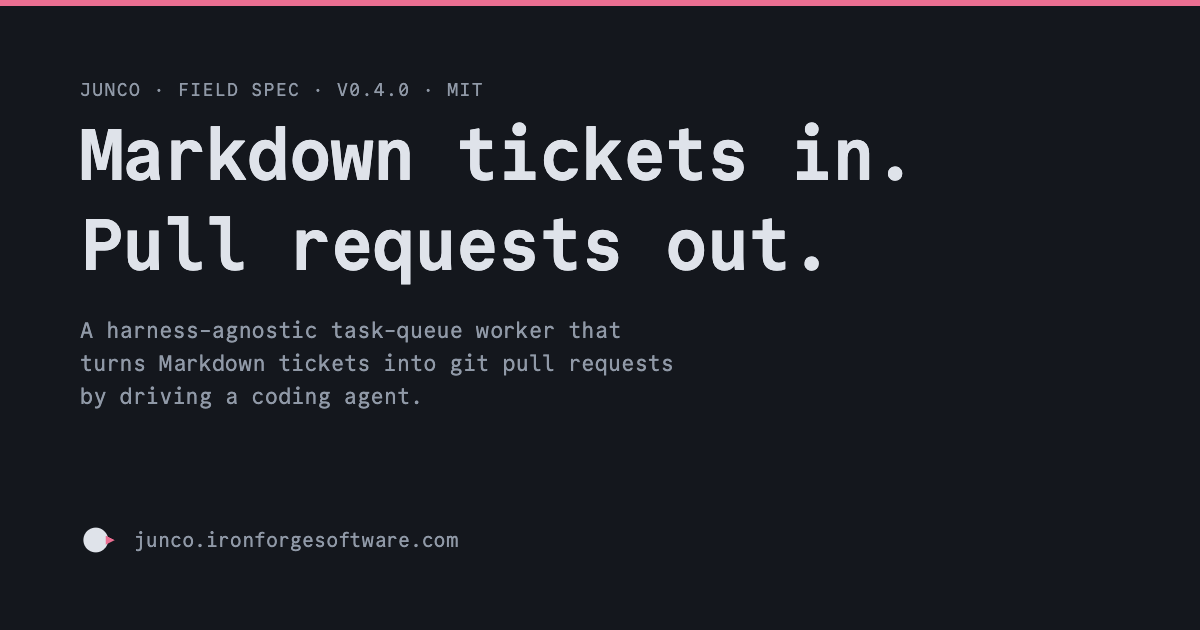
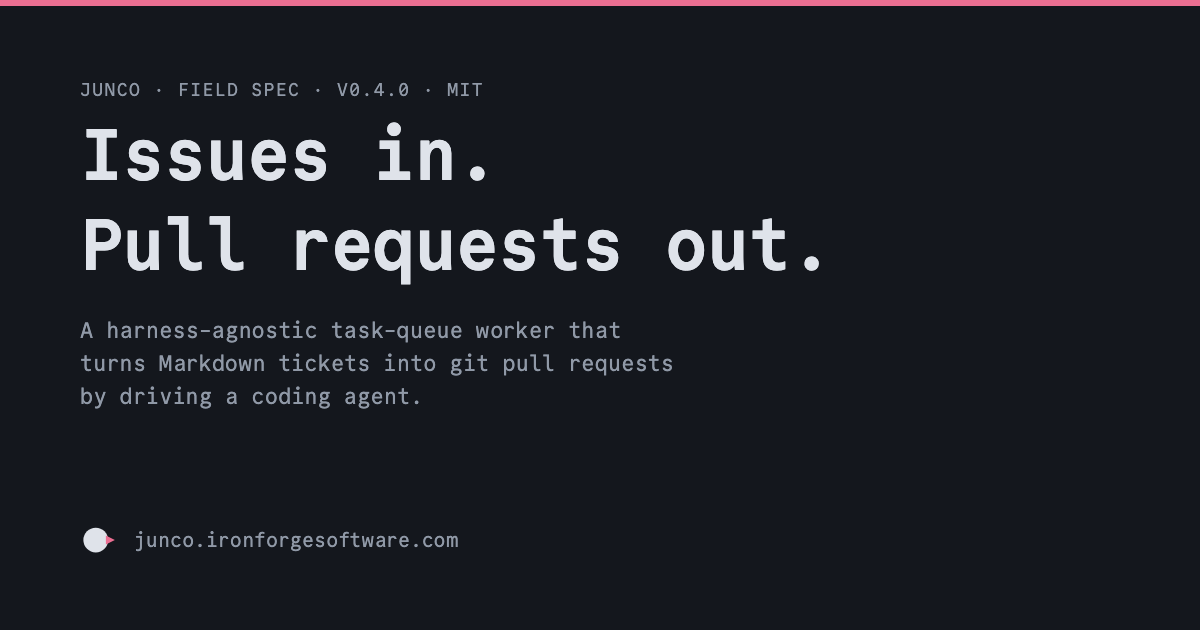
feat: regenerate og-image with the GitHub-first headline

Changed region(s): [[0.0617, 0.181, 0.6167, 0.3016], [0.6475, 0.181, 0.7708, 0.3016]]

diff --git a/og.html b/og.html
@@ -51,7 +51,7 @@
     <div class="og">
       <div>
         <p class="kicker">junco · field spec · v0.4.0 · MIT</p>
-        <h1>Markdown tickets in.<br>Pull requests out.</h1>
+        <h1>Issues in.<br>Pull requests out.</h1>
         <p class="pos">
           A harness-agnostic task-queue worker that turns Markdown tickets into git pull requests
           by driving a coding agent.